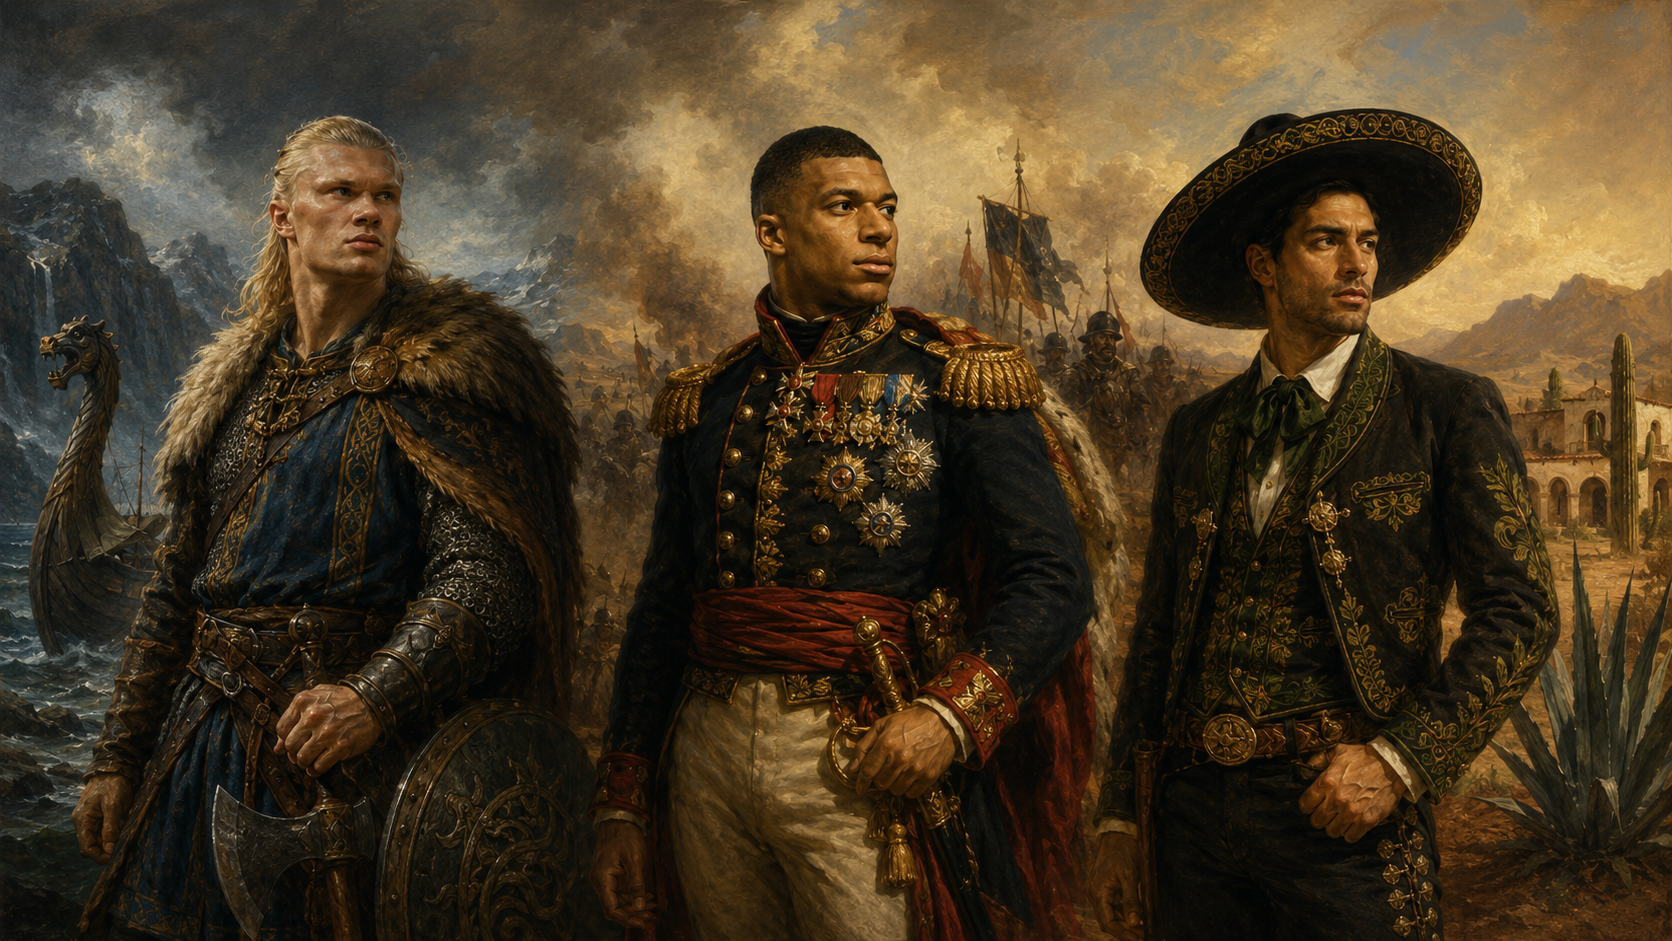
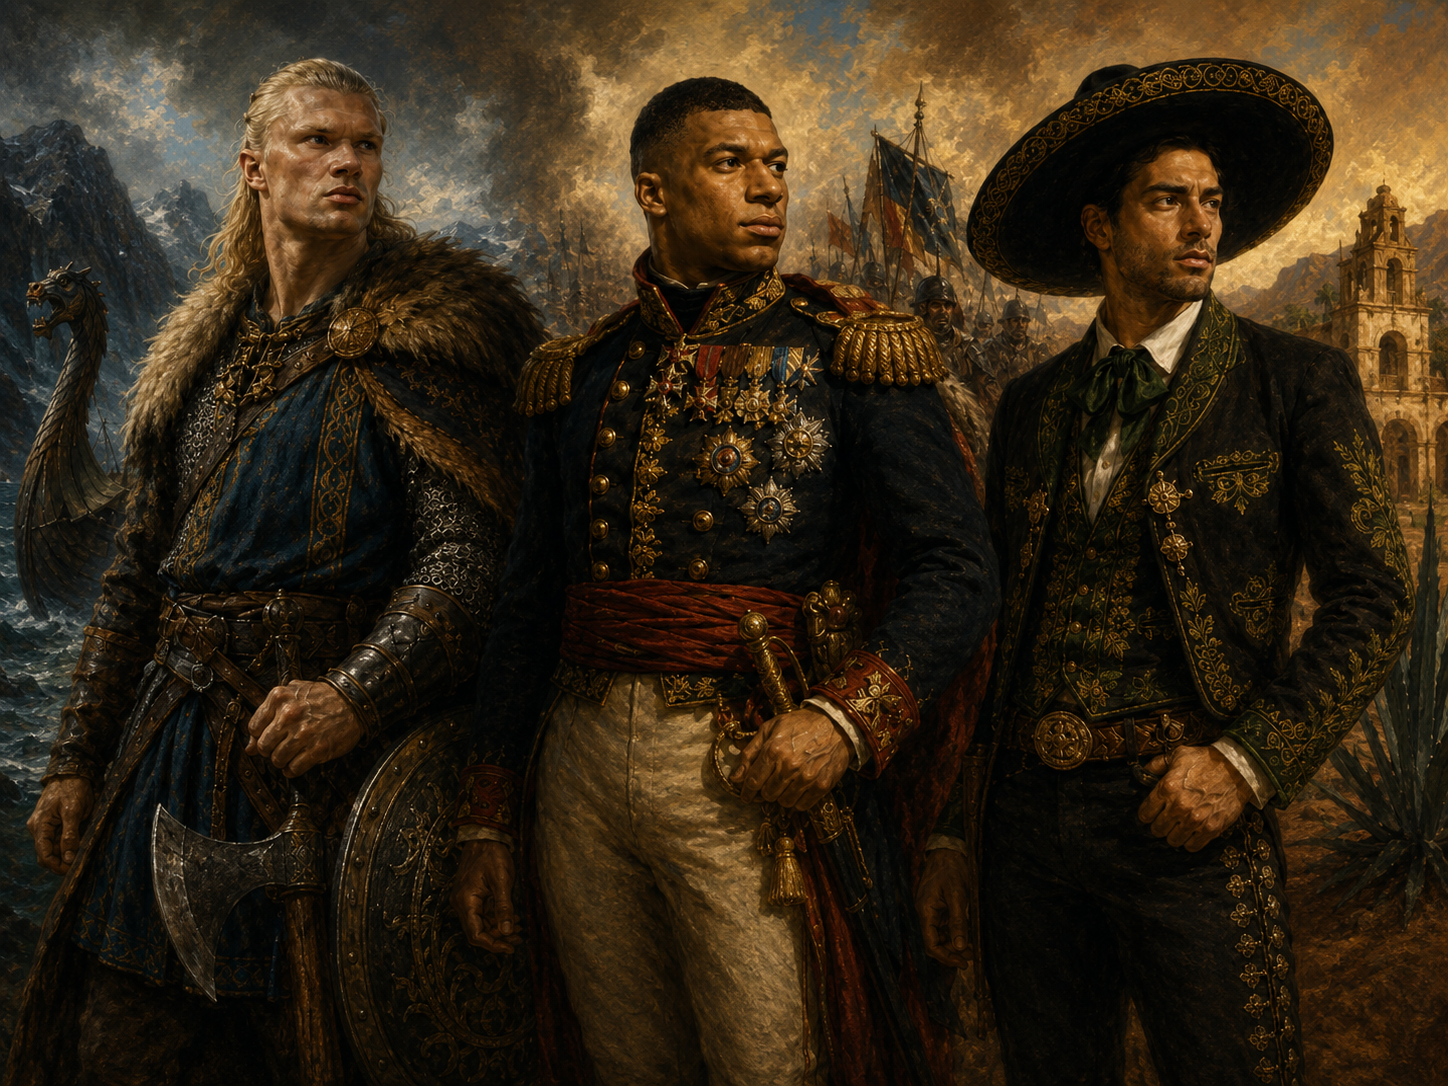
Update dashboard hero layout

diff --git a/src/app/globals.css b/src/app/globals.css
@@ -203,28 +203,28 @@ button:disabled {
 }
 
 .hero h1 {
-  background: none;
-  border: 0;
-  border-radius: 0;
-  box-shadow: none;
+  background: rgba(7, 15, 30, 0.46);
+  border: 1px solid rgba(255, 245, 207, 0.34);
+  border-radius: var(--r-md);
+  box-shadow: 0 18px 46px rgba(0, 0, 0, 0.28);
   color: #fff5cf;
   font-family: var(--font-display);
   font-size: clamp(3.2rem, 7vw, 6.4rem);
   font-weight: 800;
-  left: max(var(--s-3), calc((100vw - 1120px) / 2));
+  left: 50%;
   letter-spacing: 0;
   line-height: 0.94;
   margin: 0;
   max-width: min(720px, calc(100% - 2 * var(--s-3)));
   overflow-wrap: anywhere;
-  padding: 0;
+  padding: 0.22em 0.36em 0.26em;
   position: absolute;
-  text-align: left;
+  text-align: center;
   text-shadow:
     0 5px 22px rgba(0, 0, 0, 0.82),
     0 0 3px rgba(0, 0, 0, 0.74);
-  top: clamp(30px, 5vw, 64px);
-  transform: none;
+  top: 50%;
+  transform: translate(-50%, -50%);
   z-index: 1;
 }
 
@@ -2655,17 +2655,18 @@ button:disabled {
   }
 
   .hero {
-    background-position: 0 0, center;
-    background-size: auto, contain;
-    min-height: clamp(360px, 75vw, 500px);
+    background-position: 0 0, center center;
+    background-size: auto, cover;
+    min-height: clamp(430px, 68svh, 620px);
+    padding: var(--s-4) var(--s-2);
   }
 
   .hero h1 {
-    font-size: clamp(2.8rem, 11vw, 4.4rem);
-    left: var(--s-2);
-    max-width: calc(100% - 2 * var(--s-2));
-    top: 28px;
-    transform: none;
+    font-size: clamp(2.45rem, 10vw, 4rem);
+    left: 50%;
+    max-width: min(86vw, 420px);
+    top: 48%;
+    transform: translate(-50%, -50%);
   }
 
   .hero-status-line + .hero-status-line {
@@ -2673,22 +2674,34 @@ button:disabled {
   }
 
   .hero-actions {
-    bottom: 22px;
+    bottom: 16px;
+    display: flex;
     gap: 7px;
-    grid-template-columns: repeat(2, minmax(0, 1fr));
-    max-width: min(460px, calc(100% - 2 * var(--s-2)));
+    left: var(--s-2);
+    max-width: calc(100% - 2 * var(--s-2));
+    overflow-x: auto;
+    padding: 0 0 3px;
+    right: auto;
+    scrollbar-width: none;
+    scroll-snap-type: x proximity;
+    width: calc(100% - 2 * var(--s-2));
+  }
+
+  .hero-actions::-webkit-scrollbar {
+    display: none;
   }
 
   .hero-actions a {
-    min-height: 36px;
-    font-size: 0.74rem;
-    padding-inline: 0.55rem;
+    flex: 0 0 auto;
+    font-size: 0.69rem;
+    min-height: 30px;
+    min-width: max-content;
+    padding: 0.42rem 0.58rem;
+    scroll-snap-align: start;
   }
 
   .hero-actions a:last-child:nth-child(odd) {
-    grid-column: 1 / -1;
-    justify-self: center;
-    width: calc((100% - 7px) / 2);
+    width: auto;
   }
 
   .draft-room-list {